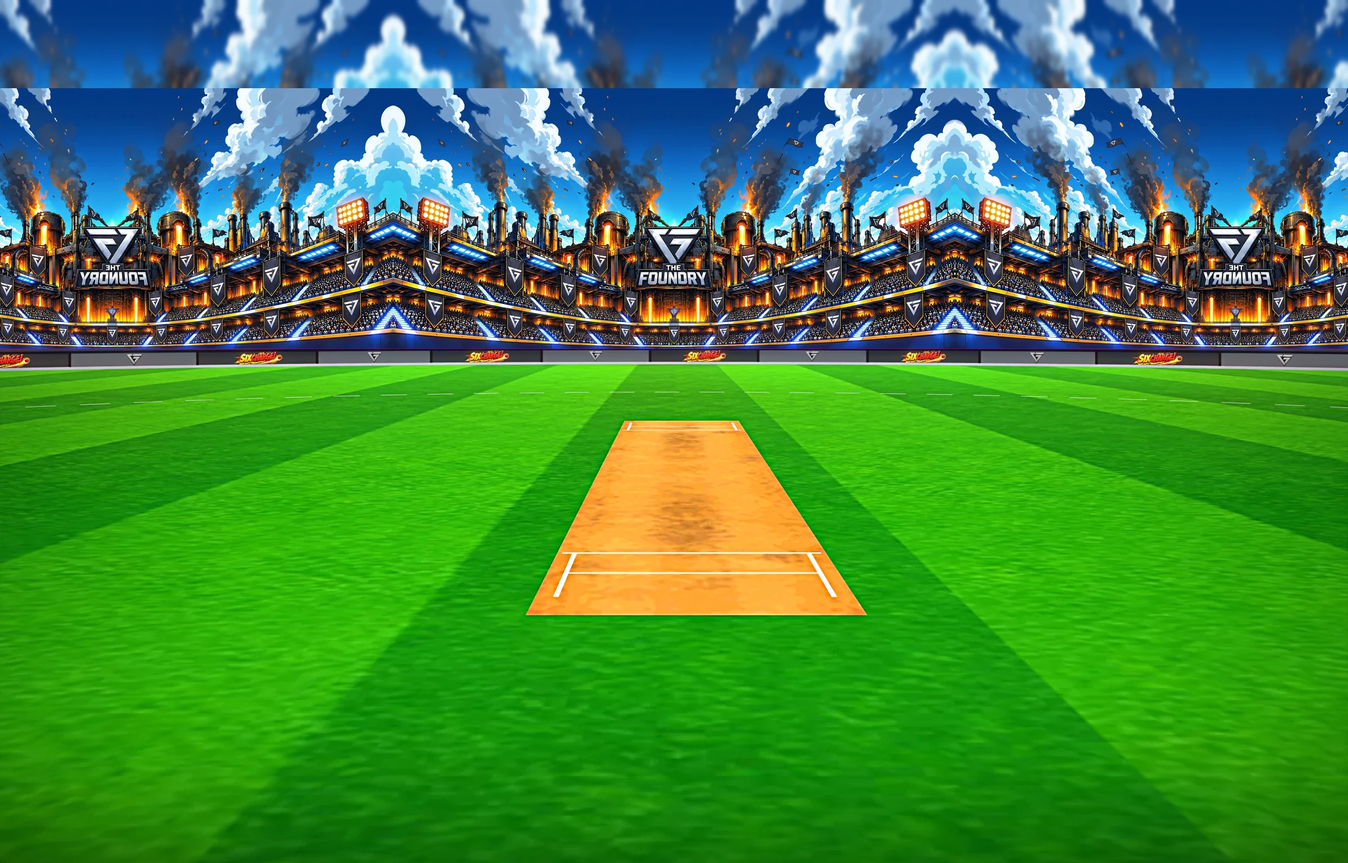
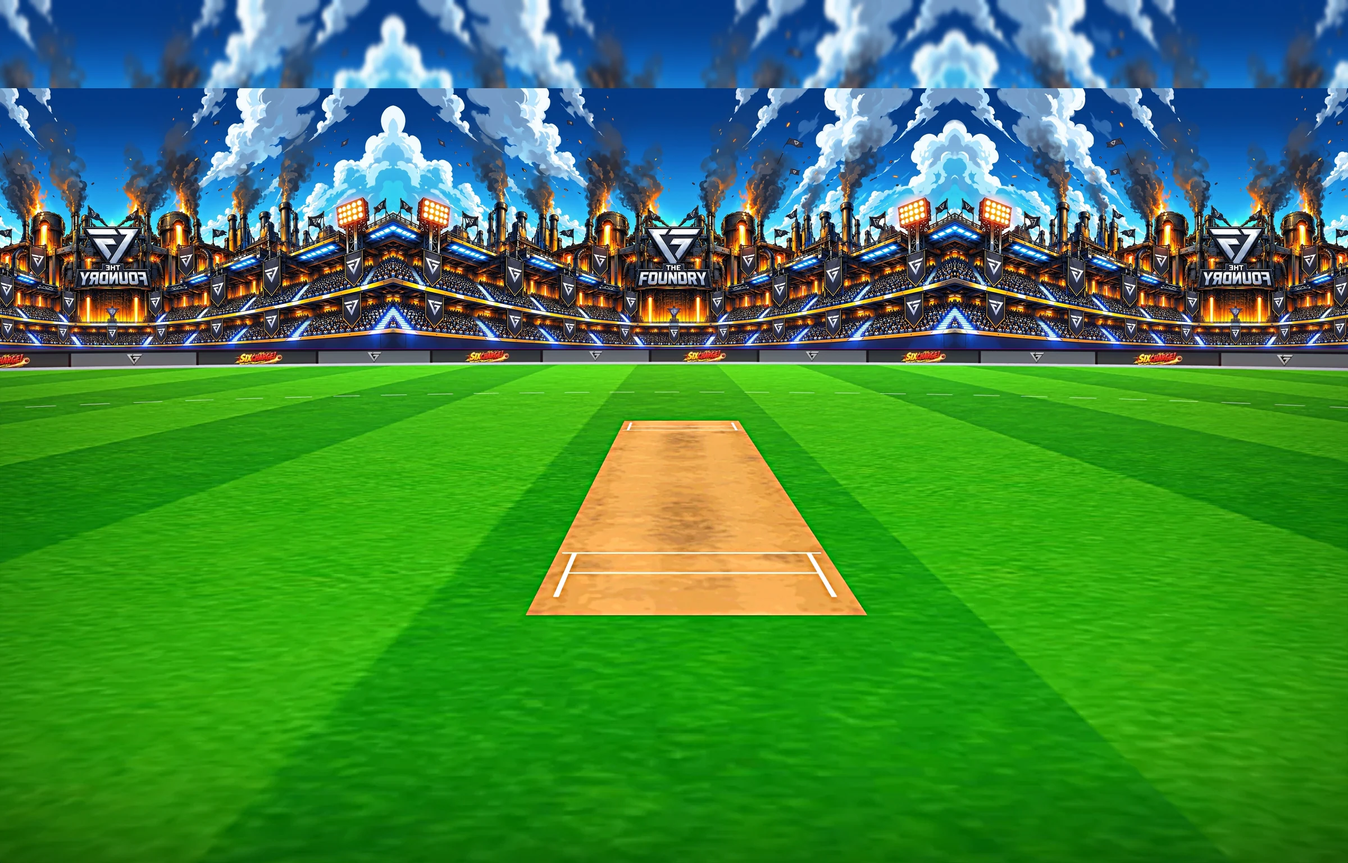
Foundry: keep the pitch's clay colour under the new finish
Claude-Session: https://claude.ai/code/session_01NK7tbrKg5PdA6fuyEUPXLd

Changed region(s): [[0.375, 0.5, 0.6562, 0.7188]]

diff --git a/tools/build_thunderdome_art.py b/tools/build_thunderdome_art.py
@@ -58,7 +58,8 @@ def grade(out, bt, stand):
     f = np.where(field > 0, out + (out - blur) * 0.9 * field, f)
     # richer grass: a lift in saturation and a touch of contrast
     lum = f.mean(2, keepdims=True)
-    sat = lum + (f - lum) * (1 + 0.22 * field)
+    pitch = np.clip((f[..., :1] - f[..., 2:]) / 60 - 0.3, 0, 1)         # (the warm clay: kept as it was, the glow lights it enough)
+    sat = lum + (f - lum) * (1 + (0.22 * (1 - pitch) - 0.06 * pitch) * field)
     f = np.where(field > 0, (sat - 128) * (1 + 0.06 * field) + 128, f)
     # the furnaces' glow spilling on the grass: the stand's own colours just above the boards, smeared
     # down the field, strongest at the boards and gone by a third of the way down
@@ -66,7 +67,7 @@ def grade(out, bt, stand):
     band = ndi.gaussian_filter1d(band, W * 0.03, axis=0)
     warm = np.clip(band * np.array([1.25, 0.8, 0.45]), 0, 255)          # (pushed towards fire)
     fall = np.clip(1 - (rows - bt) / (0.34 * (H - bt)), 0, 1) ** 1.6 * field
-    spill = warm[None] * fall
+    spill = warm[None] * fall * (1 - 0.5 * pitch)
     f = 255 - (255 - f) * (255 - spill * 0.55) / 255                   # screen
     # the rim of light along the boards, and the boards' own glow (a bloom of what's bright there)
     bandrows = (np.abs(rows - bt) < 70).astype(np.float64)
